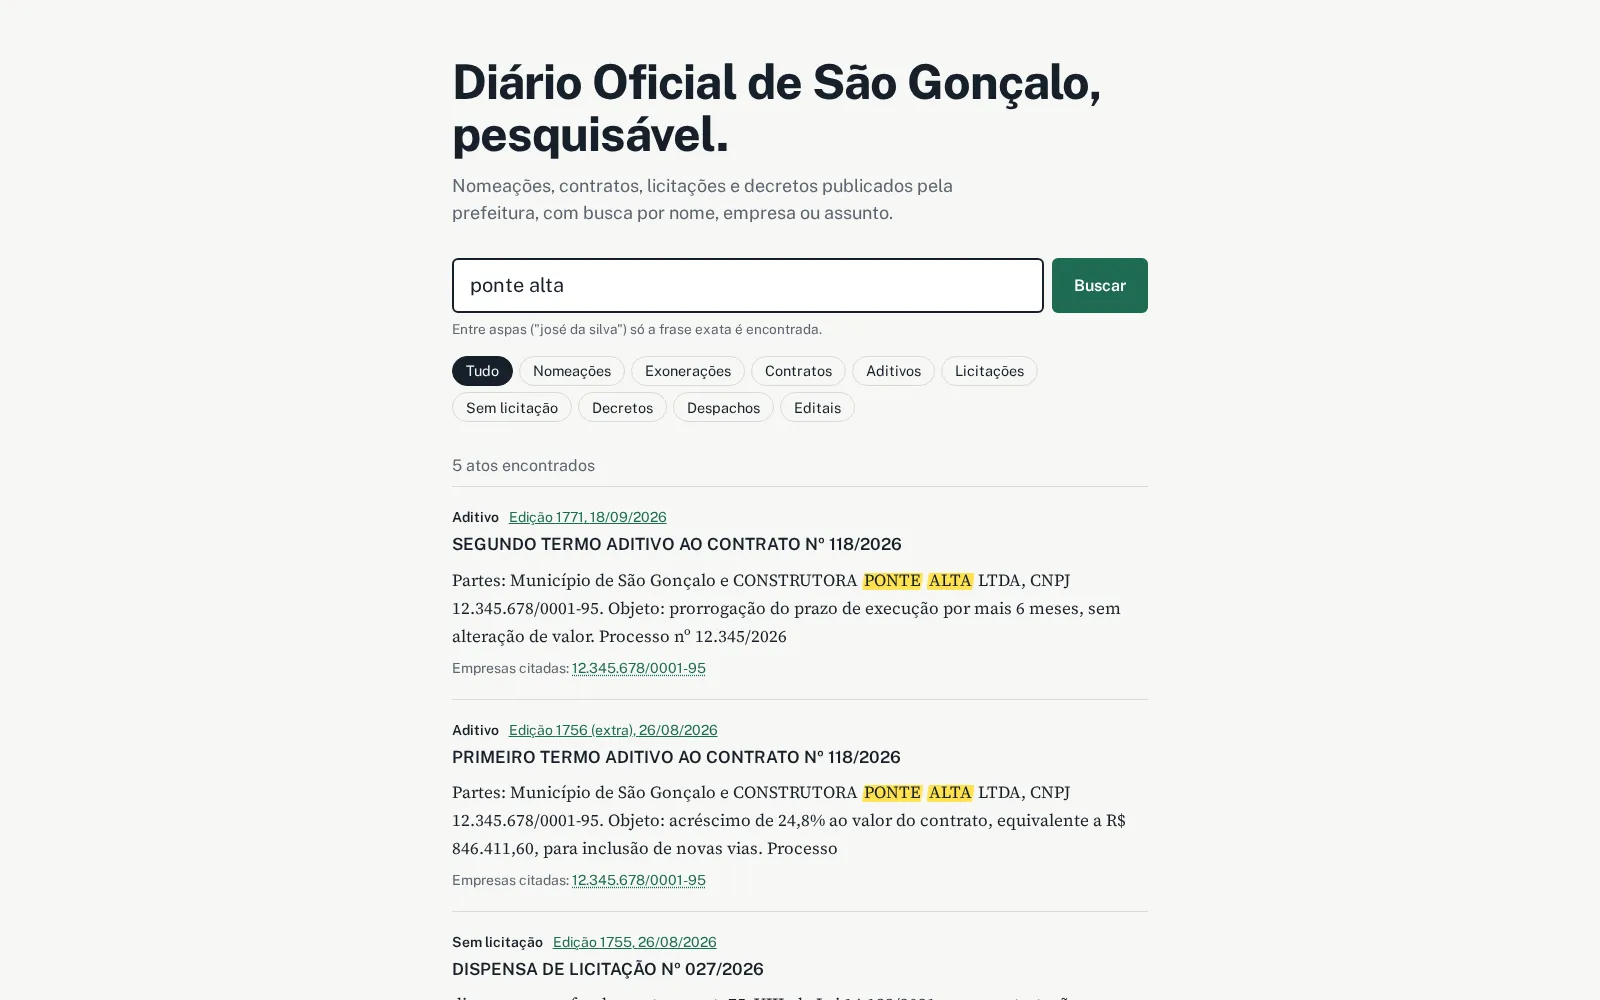
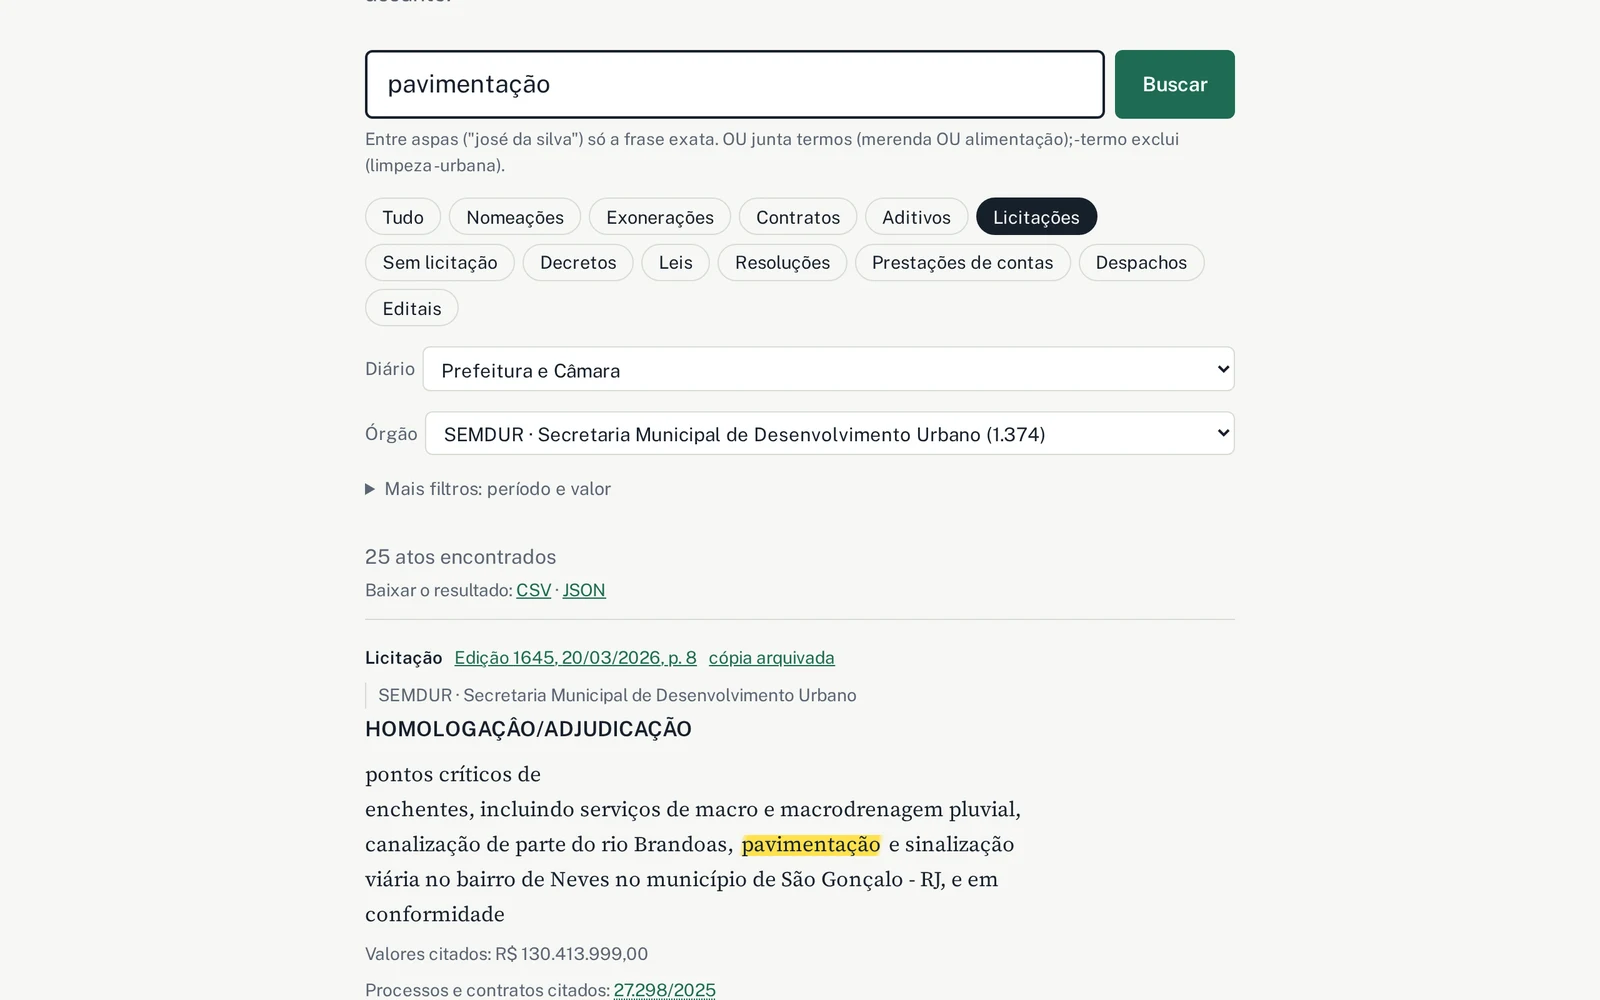
feat: update diario sg with new features and screenshots
The entry now covers both gazettes (City Hall and City Council) with
OCR, the corrected index size (5,286 editions since 2010, about 163k
acts), the company page that cross-checks Receita, CGU, TCE-RJ, the
city spending portal and PNCP, the supplier and pattern dashboards,
alerts by term or entity with RSS, and the MCP server. Stack gains MCP.

Seven new 16:10 screenshots replace the three demo ones: search,
company registry, company payments, email alert, mobile, largest
suppliers and the MCP page. Copy passed the unslop-text scanner in
both languages.

Changed region(s): [[0.2188, 0.031, 0.7812, 1.0], [0.2188, 0.341, 0.25, 0.372]]

diff --git a/js/app.js b/js/app.js
@@ -49,7 +49,7 @@
       jobs: {
         longa: { title: 'Longa', subtitle: 'Training plans that adapt to how you actually ran', desc: 'A running app that rewrites next week around what you actually did.', body1: 'Most training plans are static. Skip runs and the schedule ignores it. Longa builds a plan from a short assessment and, when you log an incomplete long run, a lost week or an injury, rewrites the weeks ahead with less volume and hard sessions turned easy. It never touches the current week or the race date.', body2: 'I built it solo, end to end: an Expo/React Native app that runs on web and Android, a Go API on Fly.io with Postgres, and a dependency-free TypeScript plan engine that runs on the device. Every change explains itself in plain language, so the runner knows why the week looks different.', body3: 'It also records runs by GPS with a map, imports from Health Connect, syncs local-first with last-write-wins and bills through Stripe, in three languages. It\'s live on the web and still pre-launch: Android passes the end-to-end suite but isn\'t in the store yet.', ph: ['current week on desktop', 'full plan and volume', 'plan rewrite with reasons', 'mobile onboarding and log'] },
         morada: { title: 'Morada', subtitle: 'Condominium management for admins and residents', desc: 'A web app where the admin runs the building and residents pay the monthly fee via Pix.', body1: 'I built it for a real small building. The admin registers apartments and residents, issues the monthly fee, records expenses with their proofs and sends notices. Residents see their receipts, pay via Pix, upload the proof and follow the building\'s balance.', body2: 'The ledger is keyed by apartment rather than by person, so a resident can move out and the unit keeps its whole history. It\'s TypeScript end to end: React 19 on Cloudflare Pages, a Hono API on Fly.io, Postgres on Neon and proofs on R2. Everything scales to zero, so it costs about nothing to run.', body3: 'I built it feature-first, with lint enforcing the boundaries in both apps, and test-first the whole way: 900+ tests behind an 80% coverage gate, Playwright end to end in CI, and a check that ties every commit to a written spec. When main goes green it deploys itself.', ph: ['resident on mobile', 'admin on mobile'] },
-        diariosg: { title: 'Diário SG', subtitle: 'São Gonçalo\'s official gazette, made searchable', desc: 'Splits São Gonçalo\'s daily gazette into searchable acts and emails alerts.', body1: 'São Gonçalo publishes its official gazette as a long PDF almost every day, and hardly anyone reads it. I built a pipeline that downloads each edition, splits it into acts like appointments, contracts, tenders and decrees, and indexes them for Portuguese full-text search.', body2: 'You can search by name, CNPJ or subject, filter by act type, or open a company\'s page to see every act that cites it. Save a term and you get an email the day a new edition mentions it. My local index covers 1,740 editions since 2020, about 73,500 acts.', body3: 'It\'s written in Go with clean architecture and Pub/Sub events between the scraper and the worker. Postgres handles search with unaccent and trigram indexes. Terraform describes the whole Google Cloud stack, but I haven\'t deployed it yet.', ph: ['search results', 'company timeline', 'mobile search and alerts'] },
+        diariosg: { title: 'Diário SG', subtitle: 'São Gonçalo\'s official gazettes, made searchable', desc: 'Splits São Gonçalo\'s official gazettes into searchable acts, checks each company against other public data and emails alerts.', body1: 'São Gonçalo publishes two official gazettes, one from City Hall and one from the City Council, as long PDFs that hardly anyone reads. I built a pipeline that downloads each edition, runs OCR on scanned pages, splits it into acts like appointments, contracts, tenders and decrees, and indexes them for Portuguese full-text search. My local index holds 5,286 editions since 2010, about 163,000 acts.', body2: 'You can search by name, CNPJ or subject and filter by act type, gazette and agency. A company\'s page puts the acts that cite it next to its federal tax registry record, CGU sanctions, TCE-RJ payments, City Hall spending commitments and PNCP contracts. Dashboards rank the largest suppliers and flag patterns worth a second look, like a no-bid purchase split into smaller ones. Save a term, CNPJ or process number and you get an email when a new edition mentions it, or follow any search over RSS.', body3: 'There\'s also an MCP server. Each person generates a key and plugs the gazette into Claude, ChatGPT or Cursor, with 12 tools to search, read and cross-check acts. It\'s written in Go with clean architecture and Pub/Sub events between the scraper and the worker, and Postgres handles search with unaccent and trigram indexes. Terraform describes the whole Google Cloud stack, but I haven\'t deployed it yet.', ph: ['search with filters', 'company tax registry record', 'company payments and commitments', 'email alert and RSS', 'search, payments and alert on mobile', 'largest suppliers', 'MCP tools for your AI'] },
         forge: { title: 'Forge', subtitle: 'Component library and scaffolding CLI', desc: 'A toolbox so a small team can start a new page in minutes.', body1: 'A small product team was rebuilding the same buttons and forms on every page. Forge is the shared library plus a CLI that scaffolds a new page with the right pieces already wired.', body2: 'TypeScript, React and Vite. Documented with live examples so nobody has to ask how a component works.', ph: ['component gallery', 'CLI in action', 'docs page'] }
       }
     },
@@ -88,7 +88,7 @@
       jobs: {
         longa: { title: 'Longa', subtitle: 'Planos de treino que se adaptam ao que você correu', desc: 'Um app de corrida que reescreve a próxima semana a partir do que você fez.', body1: 'A maioria dos planos de treino é estática. Pule treinos e o cronograma ignora. O Longa monta o plano a partir de uma avaliação curta e, quando você registra um longão incompleto, uma semana perdida ou uma lesão, reescreve as semanas seguintes com menos volume e treino forte virando rodagem leve. Ele nunca mexe na semana atual nem na data da prova.', body2: 'Construí sozinho, de ponta a ponta: app Expo/React Native que roda na web e no Android, API em Go no Fly.io com Postgres e um motor de planos em TypeScript puro que roda no próprio aparelho. Cada mudança se explica em linguagem simples, pra que o corredor saiba por que a semana ficou diferente.', body3: 'Ele também grava corridas por GPS com mapa, importa do Health Connect, sincroniza local-first com last-write-wins e cobra pelo Stripe, em três idiomas. Está no ar na web e ainda em pré-lançamento: o Android passa na suíte de ponta a ponta, mas ainda não está na loja.', ph: ['semana atual no desktop', 'plano completo e volume', 'replanejamento explicado', 'onboarding e registro no celular'] },
         morada: { title: 'Morada', subtitle: 'Gestão de condomínios para síndicos e moradores', desc: 'Um app web onde o síndico administra o prédio e os moradores pagam a taxa via Pix.', body1: 'Fiz para um prédio pequeno de verdade. O síndico cadastra apartamentos e moradores, emite a taxa mensal, registra as contas com comprovante e envia avisos. O morador vê seus recibos, paga via Pix, anexa o comprovante e acompanha o saldo do condomínio.', body2: 'O razão é chaveado pelo apartamento, e não pela pessoa, então o morador pode sair e a unidade mantém todo o histórico. É TypeScript de ponta a ponta: React 19 no Cloudflare Pages, API Hono no Fly.io, Postgres no Neon e comprovantes no R2. Tudo escala a zero, então custa quase nada pra manter.', body3: 'Construí feature-first, com lint garantindo as fronteiras nos dois apps, e com teste primeiro o tempo todo: mais de 900 testes atrás de um gate de 80% de cobertura, Playwright de ponta a ponta no CI e uma checagem que amarra cada commit a uma spec escrita. Quando a main fica verde, ela faz o deploy sozinha.', ph: ['morador no celular', 'síndico no celular'] },
-        diariosg: { title: 'Diário SG', subtitle: 'O Diário Oficial de São Gonçalo, pesquisável', desc: 'Separa o Diário Oficial de São Gonçalo em atos pesquisáveis e manda alertas por e-mail.', body1: 'São Gonçalo publica o Diário Oficial num PDF longo quase todo dia, e quase ninguém lê. Montei um pipeline que baixa cada edição, separa os atos (nomeações, contratos, licitações, decretos) e indexa tudo para busca textual em português.', body2: 'Dá para buscar por nome, CNPJ ou assunto, filtrar por tipo de ato ou abrir a página de uma empresa com todos os atos que citam ela. Se você salva um termo, recebe um e-mail no dia em que uma edição nova menciona esse termo. Meu índice local tem 1.740 edições desde 2020, cerca de 73.500 atos.', body3: 'É escrito em Go com arquitetura limpa e eventos no Pub/Sub entre o scraper e o worker. A busca fica no Postgres, com unaccent e índices de trigrama. O Terraform descreve a stack inteira no Google Cloud, mas ainda não subi para produção.', ph: ['resultados da busca', 'linha do tempo da empresa', 'busca e alertas no celular'] },
+        diariosg: { title: 'Diário SG', subtitle: 'Os Diários Oficiais de São Gonçalo, pesquisáveis', desc: 'Separa os Diários Oficiais de São Gonçalo em atos pesquisáveis, cruza cada empresa com outras bases públicas e manda alertas por e-mail.', body1: 'São Gonçalo publica dois Diários Oficiais, o da Prefeitura e o da Câmara, em PDFs longos que quase ninguém lê. Montei um pipeline que baixa cada edição, passa as páginas escaneadas por OCR, separa os atos (nomeações, contratos, licitações, decretos) e indexa tudo para busca em português. A base local tem 5.286 edições desde 2010 e cerca de 163 mil atos.', body2: 'Dá para buscar por nome, CNPJ ou assunto e filtrar por tipo de ato, diário e órgão. A página de uma empresa junta os atos que citam ela com o cadastro na Receita, sanções da CGU, pagamentos do TCE-RJ, empenhos do portal da Prefeitura e contratos no PNCP. Os painéis listam os maiores fornecedores e apontam padrões que pedem uma segunda olhada, como dispensa de licitação fracionada. Salve um termo, um CNPJ ou um processo e você recebe um e-mail quando ele aparecer numa edição nova. Quem prefere pode assinar qualquer busca por RSS.', body3: 'Também tem um servidor MCP: cada pessoa gera a própria chave e liga o Diário no Claude, no ChatGPT ou no Cursor, com 12 ferramentas para buscar, ler e cruzar atos. É escrito em Go com arquitetura limpa e eventos no Pub/Sub entre o scraper e o worker, e a busca fica no Postgres com unaccent e índices de trigrama. O Terraform descreve a stack inteira no Google Cloud, mas ainda não subi para produção.', ph: ['busca com filtros', 'cadastro da empresa na Receita', 'pagamentos e empenhos da empresa', 'alerta por e-mail e RSS', 'busca, empenhos e alerta no celular', 'maiores fornecedores', 'ferramentas MCP para a sua IA'] },
         forge: { title: 'Forge', subtitle: 'Biblioteca de componentes e CLI de scaffolding', desc: 'Uma caixa de ferramentas pra um time pequeno começar uma página nova em minutos.', body1: 'Um time de produto pequeno refazia os mesmos botões e formulários em toda página. O Forge é a biblioteca compartilhada mais uma CLI que cria uma página nova já com as peças certas ligadas.', body2: 'TypeScript, React e Vite. Documentado com exemplos ao vivo pra ninguém precisar perguntar como um componente funciona.', ph: ['galeria de componentes', 'CLI em ação', 'página de docs'] }
       }
     }
@@ -99,7 +99,7 @@
   var JOBS = [
     { slug: 'longa', year: '2026', stack: 'React Native · Go · PostgreSQL · Fly.io', live: 'https://app.longa.run', repo: '', images: ['imgs/longa/01-week-view.webp', 'imgs/longa/02-full-plan.webp', 'imgs/longa/03-plan-rewrite.webp', 'imgs/longa/04-mobile.webp'] },
     { slug: 'morada', year: '2026', stack: 'React · TypeScript · Hono · PostgreSQL', live: 'https://morada-a6g.pages.dev', repo: 'https://github.com/Lucantas/morada-app', images: ['imgs/morada/01-resident-mobile.webp', 'imgs/morada/02-admin-mobile.webp'] },
-    { slug: 'diariosg', year: '2026', stack: 'Go · React · Postgres · GCP · Terraform', live: '', repo: 'https://github.com/Lucantas/diario-sg', images: ['imgs/diariosg/01-busca.webp', 'imgs/diariosg/02-empresa.webp', 'imgs/diariosg/03-mobile.webp'] },
+    { slug: 'diariosg', year: '2026', stack: 'Go · React · Postgres · MCP · GCP · Terraform', live: '', repo: 'https://github.com/Lucantas/diario-sg', images: ['imgs/diariosg/01-busca.webp', 'imgs/diariosg/02-empresa-cadastro.webp', 'imgs/diariosg/03-empresa-pagamentos.webp', 'imgs/diariosg/04-alerta.webp', 'imgs/diariosg/05-mobile.webp', 'imgs/diariosg/06-fornecedores.webp', 'imgs/diariosg/07-mcp.webp'] },
     { slug: 'forge', year: '2023', stack: 'TypeScript · React · Vite', live: '', repo: 'https://github.com/Lucantas', images: [] }
   ];
 
